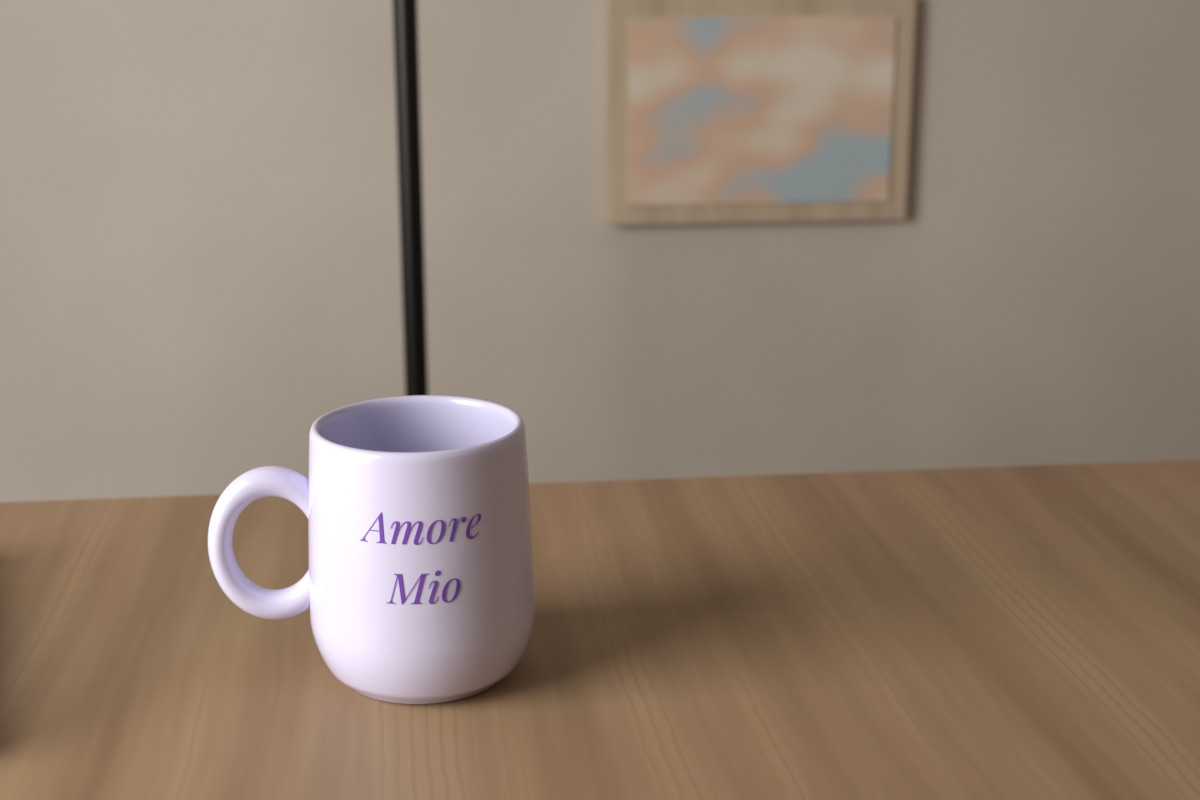
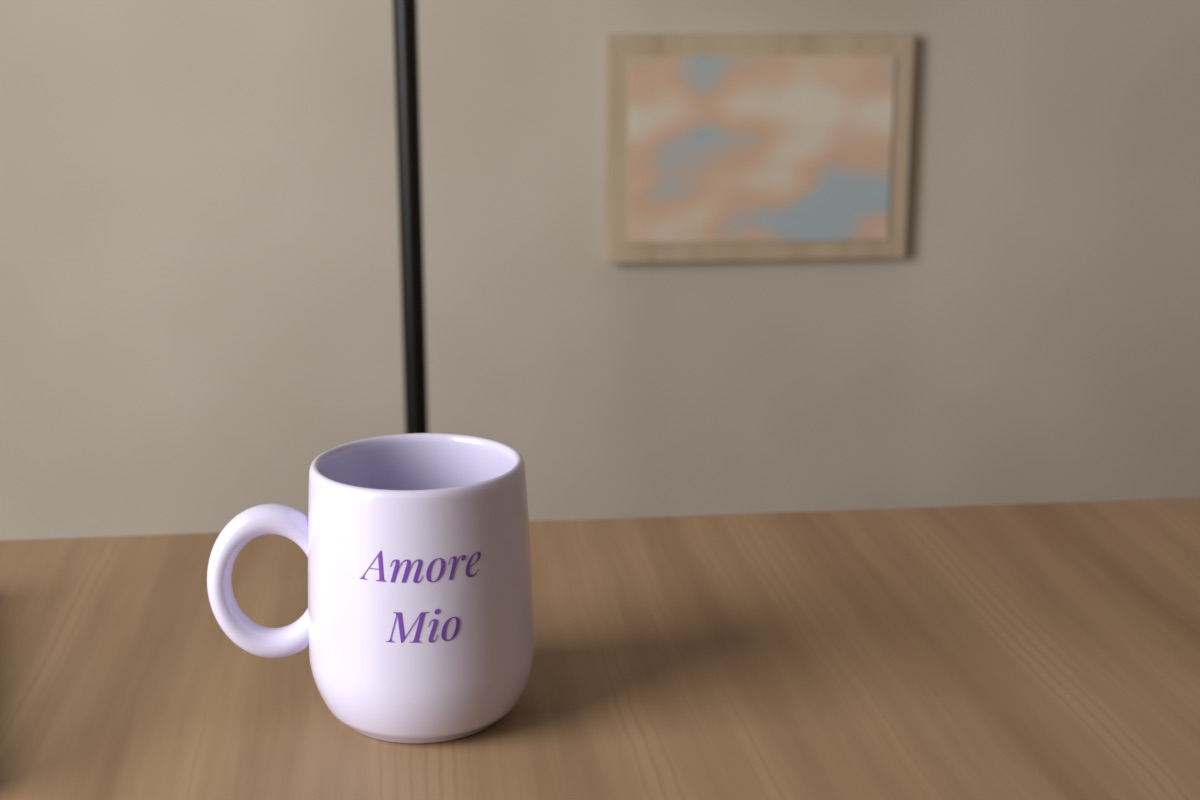
L1-03 V02-B v3: painting clear of the top edge

diff --git a/production/l1-03/scene/build_v04a_scene.py b/production/l1-03/scene/build_v04a_scene.py
@@ -938,6 +938,9 @@ V02_VARIANT = {"book": (-0.285, 0.02, 14.0), "remote": (0.10, -0.20, 80.0),
                "camera": (0.0, -V04A_HORIZONTAL, TABLE_TOP_Z + EYE_HEIGHT)}
 SHOTS["v02-a-v2"] = {**V02_VARIANT, "yaw": 0.0, "pitch": -20.0}
 SHOTS["v02-b-v2"] = {**V02_VARIANT, "yaw": -6.5, "pitch": -15.5}
+# B, wersja 3: to samo miejsce aparatu; nachylenie dobrane tak, żeby obraz na ścianie
+# był cały w kadrze i nie dotykał górnej krawędzi, a książka i pilot zostały poza kadrem.
+SHOTS["v02-b-v3"] = {**V02_VARIANT, "yaw": -6.5, "pitch": -14.2}
 
 # L1-04, wersja 2: jak „l1-04-blizej” / „l1-04-dalej”, ale książka niska (15 cm, jak zeszyt),
 # żeby cała mieściła się w kadrze razem z napisem.
